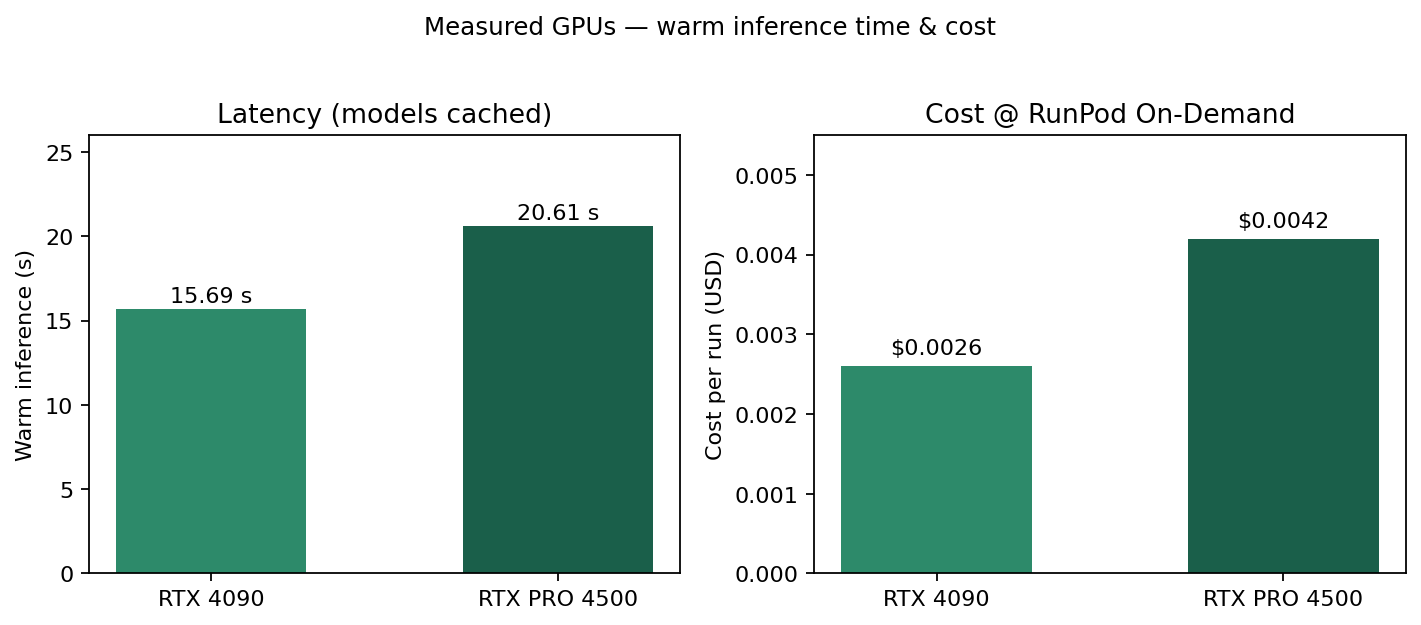
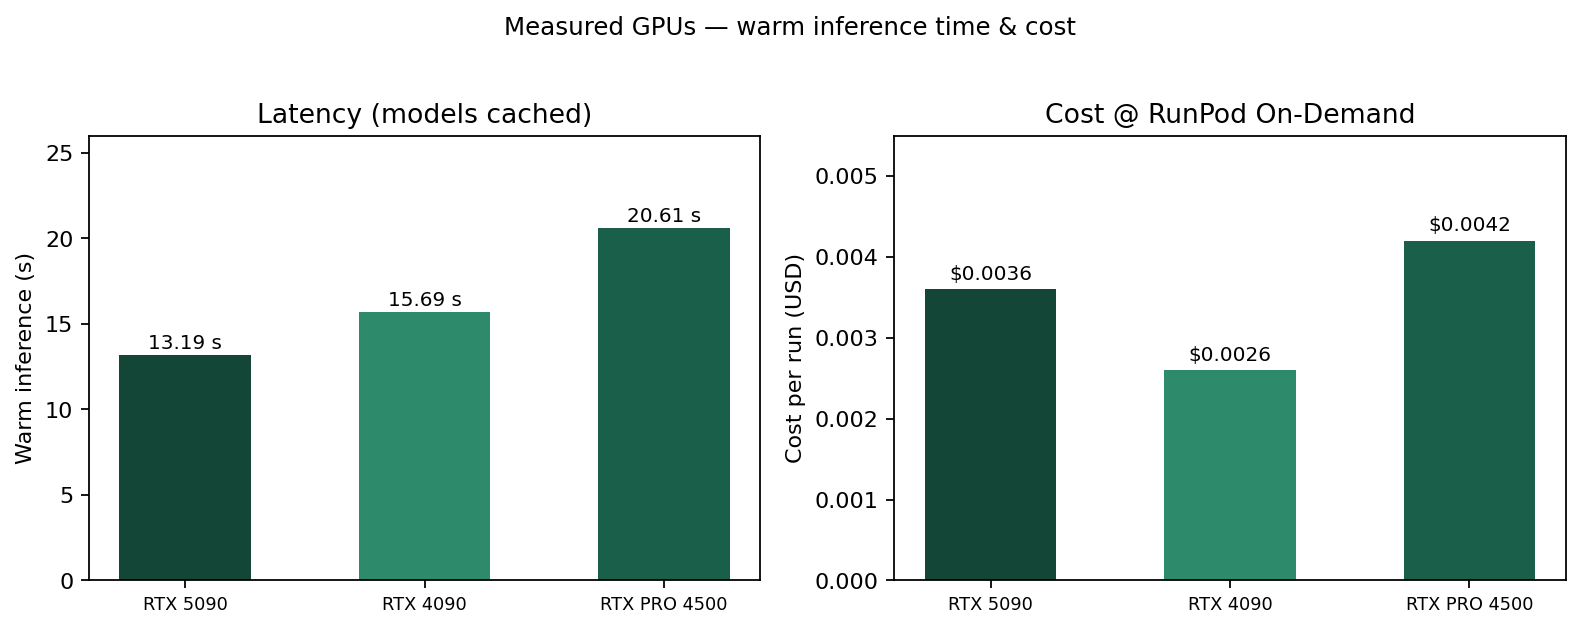
Add RTX 5090 warm timings to table 6-9 and fig 6-2.

diff --git a/thesis/make_fig6_2.py b/thesis/make_fig6_2.py
@@ -6,25 +6,27 @@ import matplotlib.pyplot as plt
 
 OUT = Path(__file__).resolve().parent / "figures" / "fig6_2.png"
 
-gpus = ["RTX 4090", "RTX PRO 4500"]
-times = [15.69, 20.61]
-costs = [0.0026, 0.0042]
-colors = ["#2d8a6a", "#1a5f4a"]
+gpus = ["RTX 5090", "RTX 4090", "RTX PRO 4500"]
+times = [13.19, 15.69, 20.61]
+costs = [0.0036, 0.0026, 0.0042]
+colors = ["#134636", "#2d8a6a", "#1a5f4a"]
 
-fig, axes = plt.subplots(1, 2, figsize=(9, 3.8))
+fig, axes = plt.subplots(1, 2, figsize=(10, 3.8))
 axes[0].bar(gpus, times, color=colors, width=0.55)
 axes[0].set_ylabel("Warm inference (s)")
 axes[0].set_title("Latency (models cached)")
 for i, v in enumerate(times):
-    axes[0].text(i, v + 0.4, f"{v:.2f} s", ha="center", fontsize=10)
+    axes[0].text(i, v + 0.35, f"{v:.2f} s", ha="center", fontsize=9)
 axes[0].set_ylim(0, 26)
+axes[0].tick_params(axis="x", labelsize=8)
 
 axes[1].bar(gpus, costs, color=colors, width=0.55)
 axes[1].set_ylabel("Cost per run (USD)")
 axes[1].set_title("Cost @ RunPod On-Demand")
 for i, v in enumerate(costs):
-    axes[1].text(i, v + 0.00015, f"${v:.4f}", ha="center", fontsize=10)
+    axes[1].text(i, v + 0.00012, f"${v:.4f}", ha="center", fontsize=9)
 axes[1].set_ylim(0, 0.0055)
+axes[1].tick_params(axis="x", labelsize=8)
 
 fig.suptitle("Measured GPUs — warm inference time & cost", fontsize=11, y=1.02)
 fig.tight_layout()

diff --git a/thesis/待辦清單.md b/thesis/待辦清單.md
@@ -180,7 +180,8 @@
 - [x] 混合取餐端到端雲端推論時間（→ 表 6-8）
 - [ ] 單一食材端到端（→ 表 6-8 單品列）
 - [x] RTX 4090 常駐單次推理（**15.69 s**，約 US$ **0.0026**）
-- [ ] 多 GPU 其餘規格（L4／5090 等）（→ 表 6-9、圖 6-2）
+- [x] RTX 5090 常駐單次推理（**13.19 s**，約 US$ **0.0036**）
+- [ ] NVIDIA L4（→ 表 6-9、圖 6-2 成本端）
 - 數據來源：`benchmark_report.json`（RunPod，2026-07-15）
 
 ### D-5　系統輸出截圖 ❌ 未開始